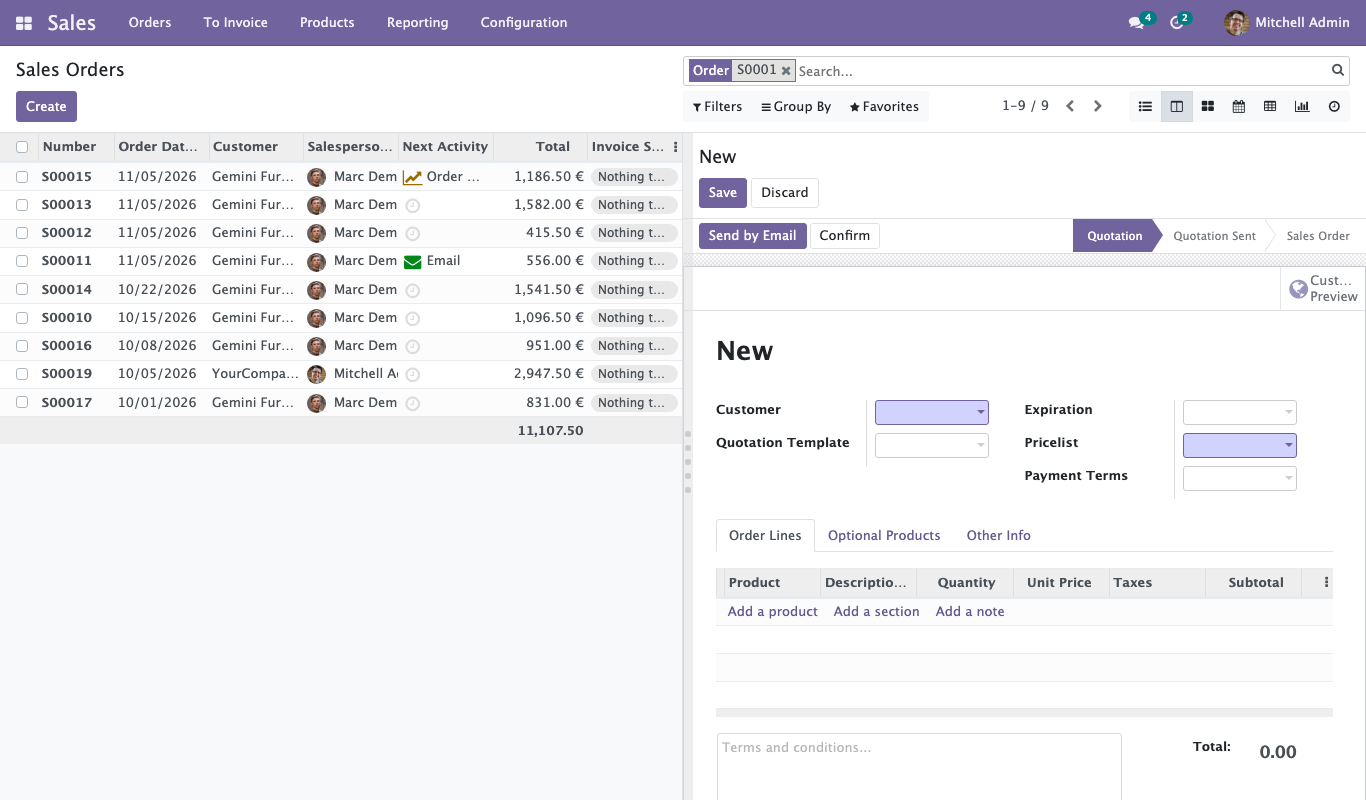
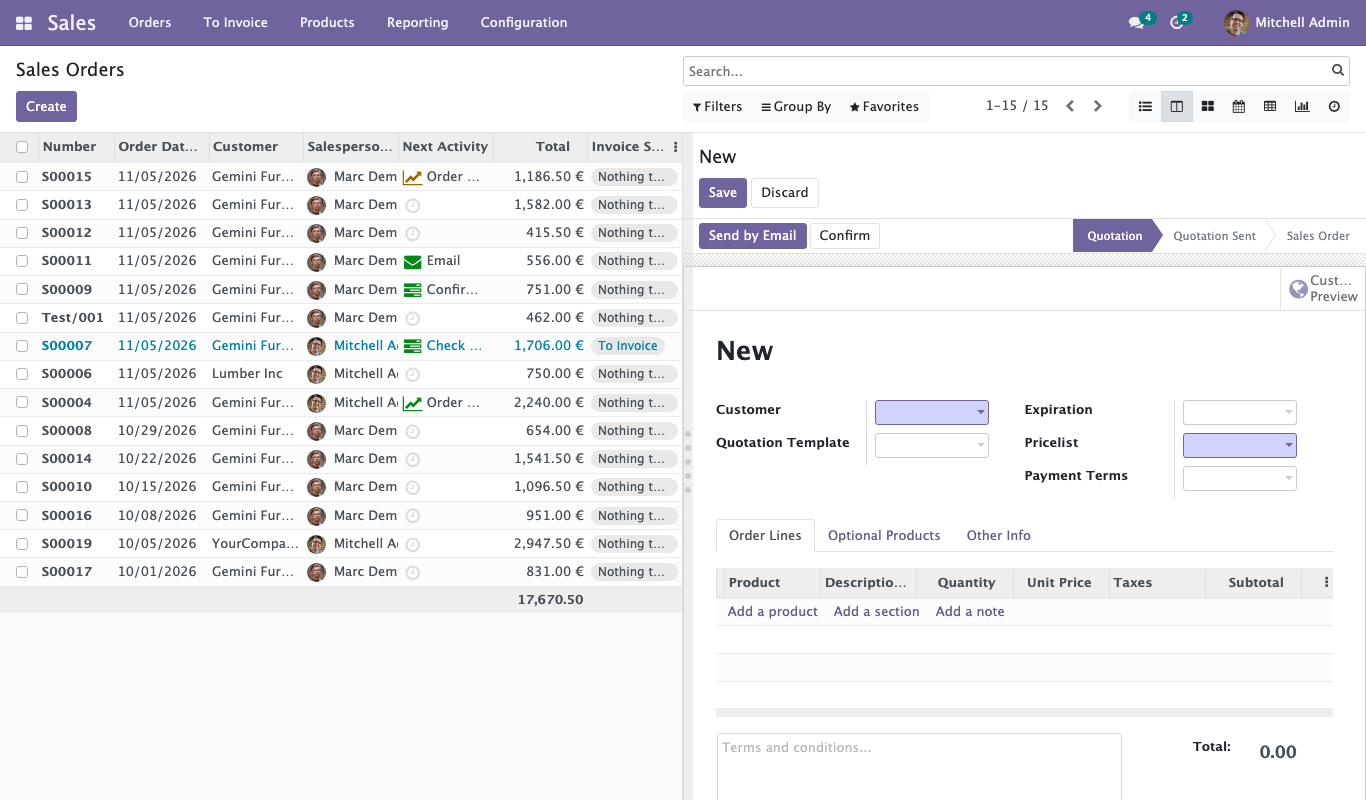
[IMP] web_split_view: automatic Split mode on every list, expand to full form, state kept, settings, OPL-1 / 39 USD, new description
Claude-Session: https://claude.ai/code/session_01MswwjzxQJzBYDNJzdTwzsA

diff --git a/web_split_view/static/src/js/split_view.js b/web_split_view/static/src/js/split_view.js
@@ -183,7 +183,12 @@ odoo.define("awesome.splitView", function (require) {
 
         _highlightActiveRow: function () {
             const rows = Array.from(this.listController.renderer.el.querySelectorAll('tr.o_data_row'));
-            rows.forEach(node => node.classList.toggle('split_active_row', !!this.activeId && node.dataset.id && this.listController.model.get(node.dataset.id, { raw: true }).res_id === this.activeId));
+            rows.forEach(node => {
+                // Odoo 12 keeps the row id in jQuery data only (no data-id attribute)
+                const id = $(node).data('id') || node.dataset.id;
+                const active = !!this.activeId && !!id && this.listController.model.get(id, { raw: true }).res_id === this.activeId;
+                node.classList.toggle('split_active_row', active);
+            });
         },
 
         /**

diff --git a/web_split_view/static/src/js/fix_wysiwyg.js b/web_split_view/static/src/js/fix_wysiwyg.js
@@ -10,6 +10,15 @@ Wysiwyg.include({
                 $el: [document.createElement('div')],
             }
         }
-        return this._super(...arguments);
+        try {
+            return await this._super(...arguments);
+        } catch (error) {
+            // The record shown in the split pane can be replaced (or sent to the full form view) while an html
+            // field is still starting: the editor is then already destroyed, its failure is of no interest.
+            if (this.isDestroyed && this.isDestroyed()) {
+                return;
+            }
+            throw error;
+        }
     }
 });
